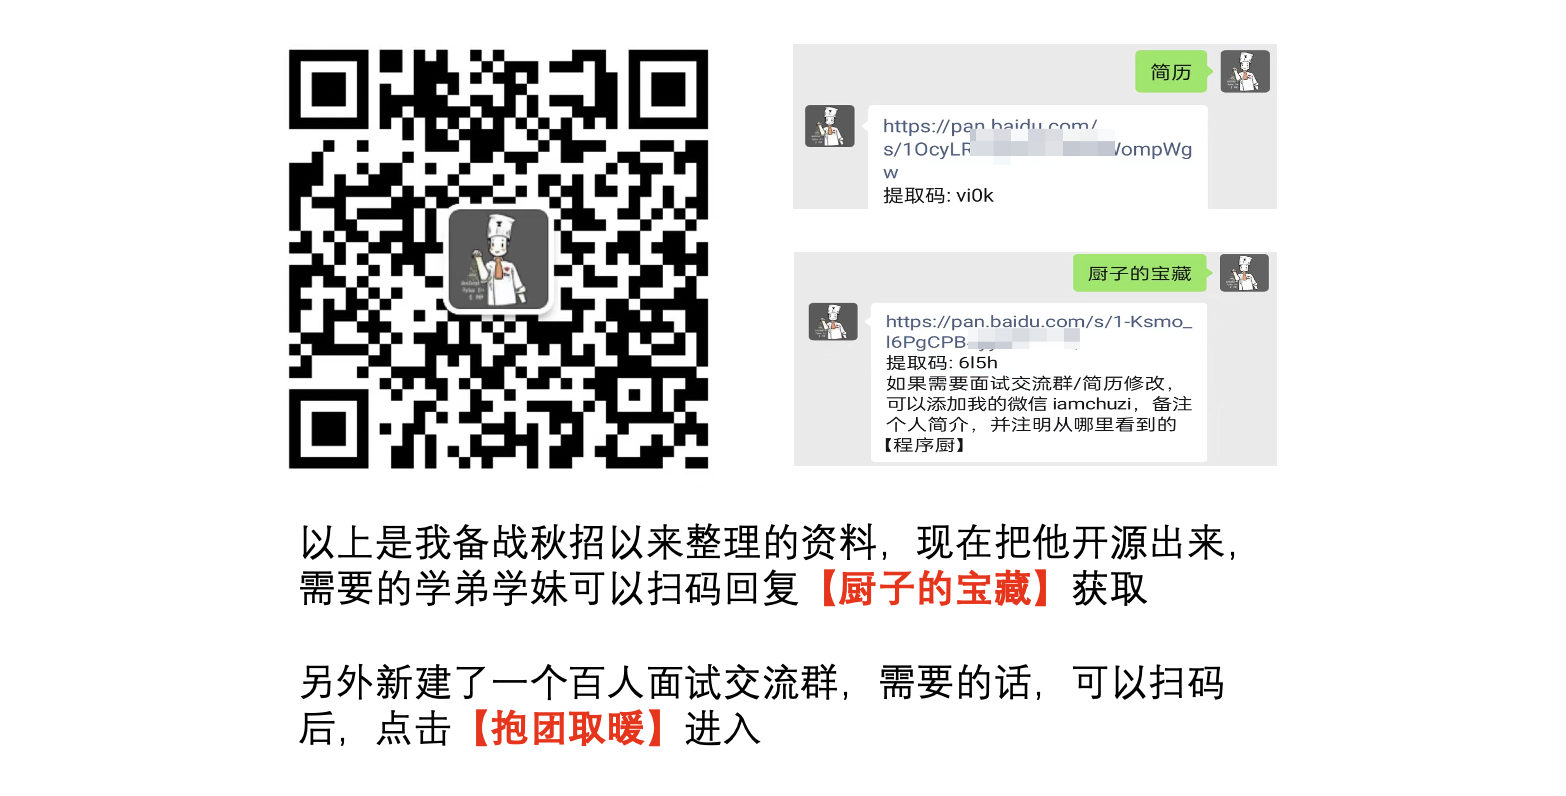
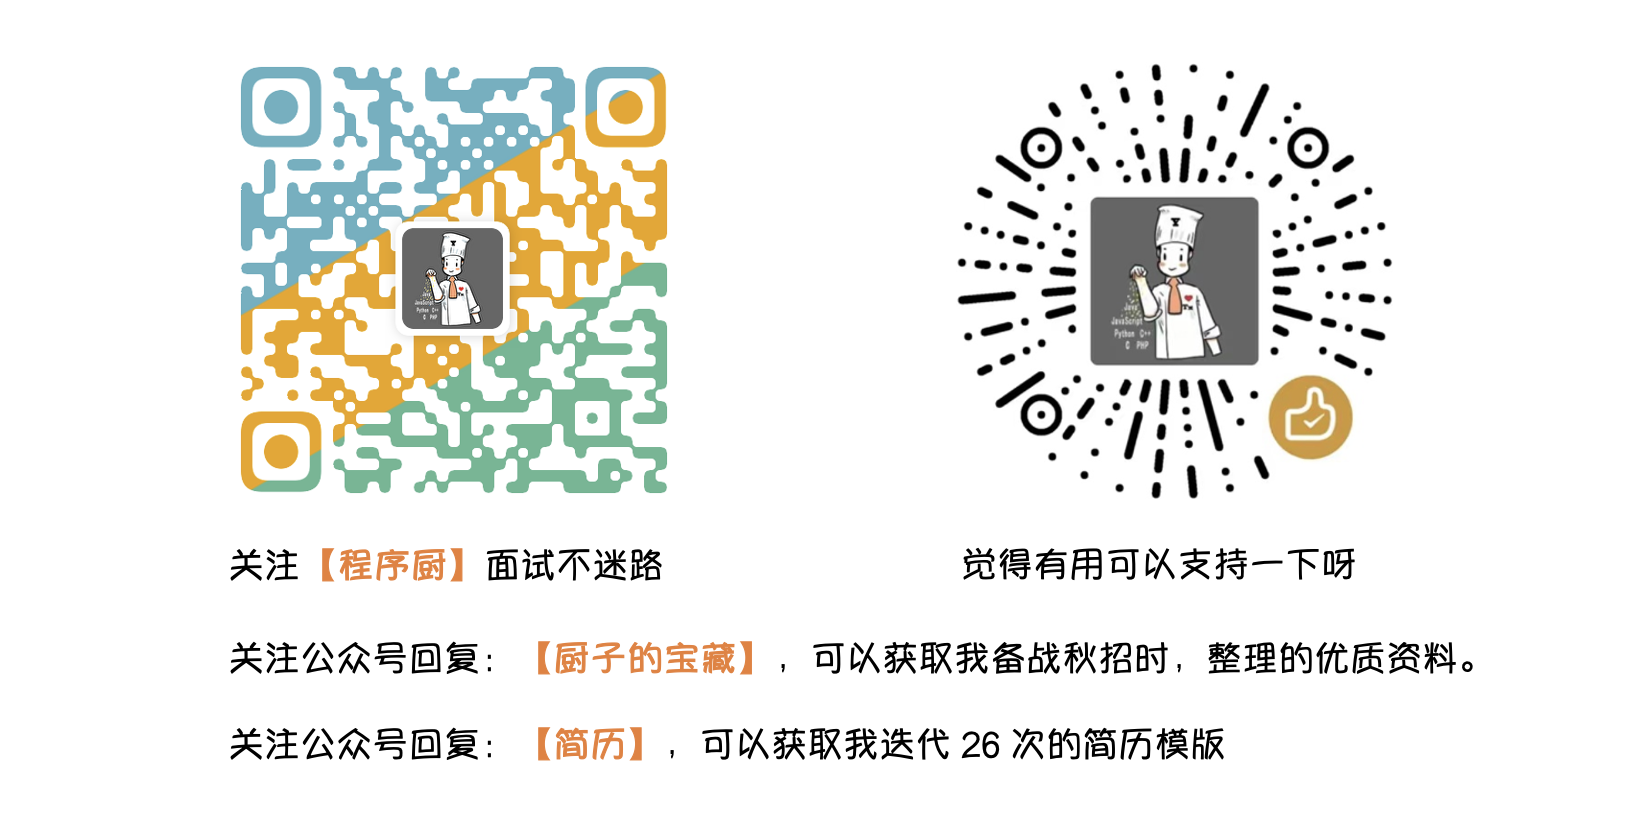
增加赞赏列表，完成二维码显示

Changed region(s): [[0.1226, 0.0603, 0.4598, 0.603], [0.1226, 0.6633, 0.9195, 0.9347], [0.4904, 0.0603, 0.8582, 0.603]]

diff --git a/my-docs/src/.vuepress/theme.ts b/my-docs/src/.vuepress/theme.ts
@@ -7,68 +7,69 @@ import { getDirname, path } from "@vuepress/utils";
 const __dirname = getDirname(import.meta.url);
 export default hopeTheme({
   hostname: "",
-  
+
   author: {
     name: "厨子",
     url: "https://github.com/chefyuan/chengxuchu",
   },
-  
+
   docsBranch: "master",
   repoLabel: "GitHub",
-  docsDir: "my-docs/src", 
+  docsDir: "my-docs/src",
 
-  
+
   iconAssets: "iconfont",
 
-  
+
   logo: "/images/logo.jpg",
   pure: true,
   // docsDir: "",
   print: false,
   fullscreen: false,
 
-  
+
   themeColor: {
     blue: "#2196f3",
     red: "#f26d6d",
     green: "#3eaf7c",
     orange: "#fb9b5f",
-  },   
-  
+  },
+
   locales: {
     "/": {
       // navbar
       navbar: zhNavbar,
       // sidebar
       sidebar: zhSidebar,
-      
-      repo:"https://github.com/chefyuan/chengxuchu",
-      footer:"<a href='https://mp.weixin.qq.com/s/FTPLjWsa46g8puwCyQ5qlQ'>百人面试交流群, 可以在公众号【程序厨】点击抱团取暖进入, 或点击该文字, 扫码进入</a>",
-      copyright:false,
-      displayFooter:true,
-      
+
+      repo: "https://github.com/chefyuan/chengxuchu",
+      footer: "<a href='https://mp.weixin.qq.com/s/FTPLjWsa46g8puwCyQ5qlQ'>百人面试交流群, 可以在公众号【程序厨】点击抱团取暖进入, 或点击该文字, 扫码进入</a>",
+      copyright: false,
+      displayFooter: true,
+
       //page meta
       metaLocales: {
         editLink: "在 GitHub 上编辑此页",
-      },      
-      
+      },
+
     },
   },
-  
-  
+
+
+
   plugins: {
     // comment: {
     //   // @ts-expect-error: You should generate and use your own comment service
     //   provider: "Waline",
     // },
-    
+
     // all features are enabled for demo, only preserve features you need here
- 
-   
+
+
     photoSwipe: false,
-    
-    
-    
+
+
+
 
     mdEnhance: {
       align: true,
@@ -112,7 +113,7 @@ export default hopeTheme({
       vuePlayground: true,
     },
 
-    
+
 
     //uncomment these if you want a pwa
     pwa: {
@@ -171,4 +172,9 @@ export default hopeTheme({
       },
     },
   },
-});
+},
+
+
+{ custom: true },
+
+);

diff --git a/my-docs/src/.vuepress/config.ts b/my-docs/src/.vuepress/config.ts
@@ -23,7 +23,7 @@ export default defineUserConfig({
       
       head: 
       [['link', { rel: 'icon', href: '/images/logo.jpg'}],
-      ["script", { src: "/scripts/demo.js"}],
+      // ["script", { src: "/scripts/demo.js"}],
       ['meta', { name: 'baidu-site-verification', content: 'codeva-t9fUvv6fEU' }],
       [
         "script",
@@ -44,8 +44,11 @@ export default defineUserConfig({
 
   },
   
-  // alias: { "FooBar": path.resolve(__dirname, "./components/Foobar.vue"),
+  // alias: { "@theme-hope/components/FooterInfo": path.resolve(__dirname, "./components/FooterInfo.vue"),
   // },
+  alias: {
+    "@theme-hope/components/NormalPage": path.resolve(__dirname,"./components/NormalPage.vue")
+  },
   
   port: 80,
   theme,
@@ -94,7 +97,7 @@ export default defineUserConfig({
       debug:true,
     }),
 
-
+    
 
   ]
 });

diff --git a/my-docs/src/.vuepress/navbar/zh.ts b/my-docs/src/.vuepress/navbar/zh.ts
@@ -65,7 +65,7 @@ export const zhNavbar = navbar([
     ],
 },
 {
-  text: '面试基地',
+  text: '🌟面试基地',
   children: [
       {
           text: '1.Redis',
@@ -98,7 +98,7 @@ export const zhNavbar = navbar([
   ],
 },
 {
-  text: '校招指南',
+  text: '📚校招指南',
   children: [
       {
           text: '1.学习路线',
@@ -125,6 +125,10 @@ export const zhNavbar = navbar([
           link: "3-interview_guide/06-实用工具",
       }
   ],
+},
+{
+ text: '🔥抱团取暖',
+ link: 'team.md'
 }
   
 ]);

diff --git a/my-docs/src/.vuepress/components/NormalPage.vue b/my-docs/src/.vuepress/components/NormalPage.vue
@@ -1,0 +1,13 @@
+<template>
+  <HopeNormalPage>
+    <template #contentAfter>
+      <div style="text-align: center">
+        <img src="../public/images/chuzi.png" style="width:700px;height:350px">
+      </div>
+    </template>
+  </HopeNormalPage>
+</template>
+
+<script setup lang="ts">
+  import HopeNormalPage from "vuepress-theme-hope/components/NormalPage.js";
+</script>

diff --git a/my-docs/src/team.md b/my-docs/src/team.md
@@ -54,8 +54,9 @@ headerDepth: 3
 扫码我的二维码，注明来意 校招/社招 + 个人技术栈 + 个人简单介绍，我会尽快同意你的申请，拉你进群。
 
 <div style="display: flex; justify-content: center; align-items: center;">
-  <img src="https://chengxuchu-1301103198.cos.ap-beijing.myqcloud.com/Photo/202305052137794.png" alt="图片" style="zoom: 50%;" />
+  <img src="./image/wechat.jpg" alt="iamchuzi" style="zoom: 20%;" />
 </div>
 
+这个群一定对大家有所帮助
 
 

diff --git a/my-docs/src/appreciate_list.md b/my-docs/src/appreciate_list.md
@@ -1,0 +1,20 @@
+---
+title : 赞赏名单
+sidebar: heading
+toc: false
+excerpt: 程序厨的赞赏名单
+author: 程序厨
+headerDepth: 3
+
+---
+
+
+这里为网站的资助者，一个月更新一次
+
+## 赞赏名单
+
+### 2023 年 5 月
+
+|  赞赏时间   | 赞赏用户  |  赞赏金额  |
+|  ----  | ----  | ----  |
+| 2023-5-20  | ***学 | 1元

diff --git a/my-docs/src/README.md b/my-docs/src/README.md
@@ -12,8 +12,8 @@ actions:
     link: base.md
     type: primary
 
-  - text: 校招/社招小队
-    link: team.md
+  - text: 赞赏名单
+    link: appreciate_list.md
 
 copyright: false
 
